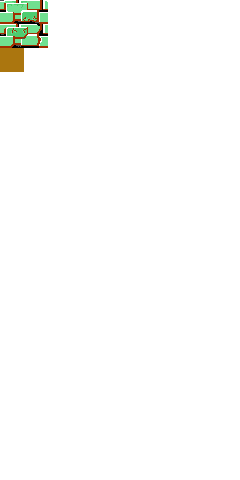
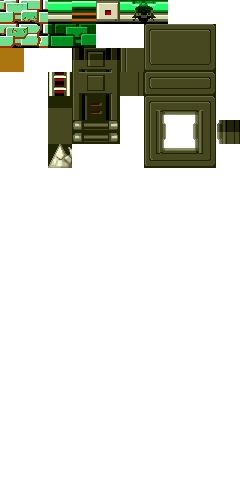
添加刺和梯子图块和地形定义

Changed region(s): [[0.175, 0.0, 1.0, 0.375]]

diff --git a/desktop/res/level/level1/mm1cuttiles.tsx b/desktop/res/level/level1/mm1cuttiles.tsx
@@ -11,6 +11,31 @@
    <property name="terrain" value="solid"/>
   </properties>
  </tile>
+ <tile id="2">
+  <properties>
+   <property name="terrain" value="solid"/>
+  </properties>
+ </tile>
+ <tile id="3">
+  <properties>
+   <property name="terrain" value="solid"/>
+  </properties>
+ </tile>
+ <tile id="4">
+  <properties>
+   <property name="terrain" value="solid"/>
+  </properties>
+ </tile>
+ <tile id="5">
+  <properties>
+   <property name="terrain" value="solid"/>
+  </properties>
+ </tile>
+ <tile id="6">
+  <properties>
+   <property name="terrain" value="solid"/>
+  </properties>
+ </tile>
  <tile id="10">
   <properties>
    <property name="terrain" value="solid"/>
@@ -19,6 +44,26 @@
  <tile id="11">
   <properties>
    <property name="terrain" value="solid"/>
+  </properties>
+ </tile>
+ <tile id="12">
+  <properties>
+   <property name="terrain" value="solid"/>
+  </properties>
+ </tile>
+ <tile id="13">
+  <properties>
+   <property name="terrain" value="solid"/>
+  </properties>
+ </tile>
+ <tile id="32">
+  <properties>
+   <property name="terrain" value="ladder"/>
+  </properties>
+ </tile>
+ <tile id="62">
+  <properties>
+   <property name="terrain" value="stabUp"/>
   </properties>
  </tile>
 </tileset>

diff --git a/core/src/zdream/rockchronicle/platform/region/Terrains.java b/core/src/zdream/rockchronicle/platform/region/Terrains.java
@@ -15,6 +15,14 @@ public class Terrains implements ITerrainStatic {
 		switch (s) {
 		case TERRAIN_STRING_SOLID:
 			return TERRAIN_SOLID;
+			
+		case TERRAIN_STRING_STAB_BALL:
+			return TERRAIN_STAB_BALL;
+		case TERRAIN_STRING_STAB_UP:
+			return TERRAIN_STAB_UP;
+			
+		case TERRAIN_STRING_LADDER:
+			return TERRAIN_STAB_LADDER;
 
 		default:
 			return TERRAIN_EMPTY;
@@ -26,7 +34,7 @@ public class Terrains implements ITerrainStatic {
 	 * 允许的有: 空、楼梯
 	 */
 	public static boolean isEmpty(byte terrain) {
-		return terrain == TERRAIN_EMPTY;
+		return terrain == TERRAIN_EMPTY || terrain == TERRAIN_STAB_LADDER;
 	}
 
 }

diff --git a/core/src/zdream/rockchronicle/platform/region/ITerrainStatic.java b/core/src/zdream/rockchronicle/platform/region/ITerrainStatic.java
@@ -5,10 +5,14 @@ public interface ITerrainStatic {
 	public static final byte
 		TERRAIN_EMPTY = 0,
 		TERRAIN_SOLID = 1,
-		TERRAIN_STAB_BALL = 17;
+		TERRAIN_STAB_BALL = 17,
+		TERRAIN_STAB_UP = 18,
+		TERRAIN_STAB_LADDER = 33;
 	
 	public static final String
 		TERRAIN_STRING_SOLID = "solid",
-		TERRAIN_STRING_STAB_BALL = "stab_ball";
+		TERRAIN_STRING_STAB_BALL = "stabBall",
+		TERRAIN_STRING_STAB_UP = "stabUp",
+		TERRAIN_STRING_LADDER = "ladder";
 
 }
